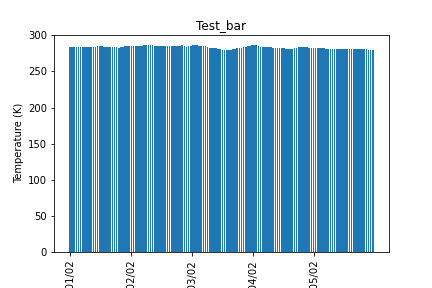
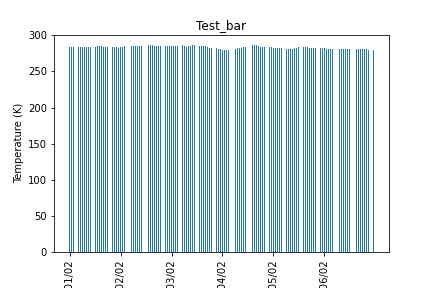
Bar plot

diff --git a/Figure.py b/Figure.py
@@ -86,14 +86,15 @@ def hour_line_interval(list_dt, list_temp):
     
 def hour_bar_interval(list_dt, list_temp):
     F1, AX1 = plt.subplots()
-    AX1.bar(list_dt, list_temp)
+    AX1.bar(list_dt, list_temp, width=0.4)
     # AX1.grid()
-    plt.xticks(np.arange(0,len(list_dt),len(list_dt)/5), rotation='vertical')
+    plt.xticks(np.arange(0,len(list_dt),len(list_dt)/6), rotation='vertical')
     AX1.set_title('Test_bar')
     AX1.set_xlabel('Time')
     AX1.set_ylabel('Temperature (K)')
     plt.savefig(output_plot + 'Test_bar.png')
     plt.show()
+    
     
 def main():   
     data, list_dt, list_temp  = hour_scatter_interval() 
